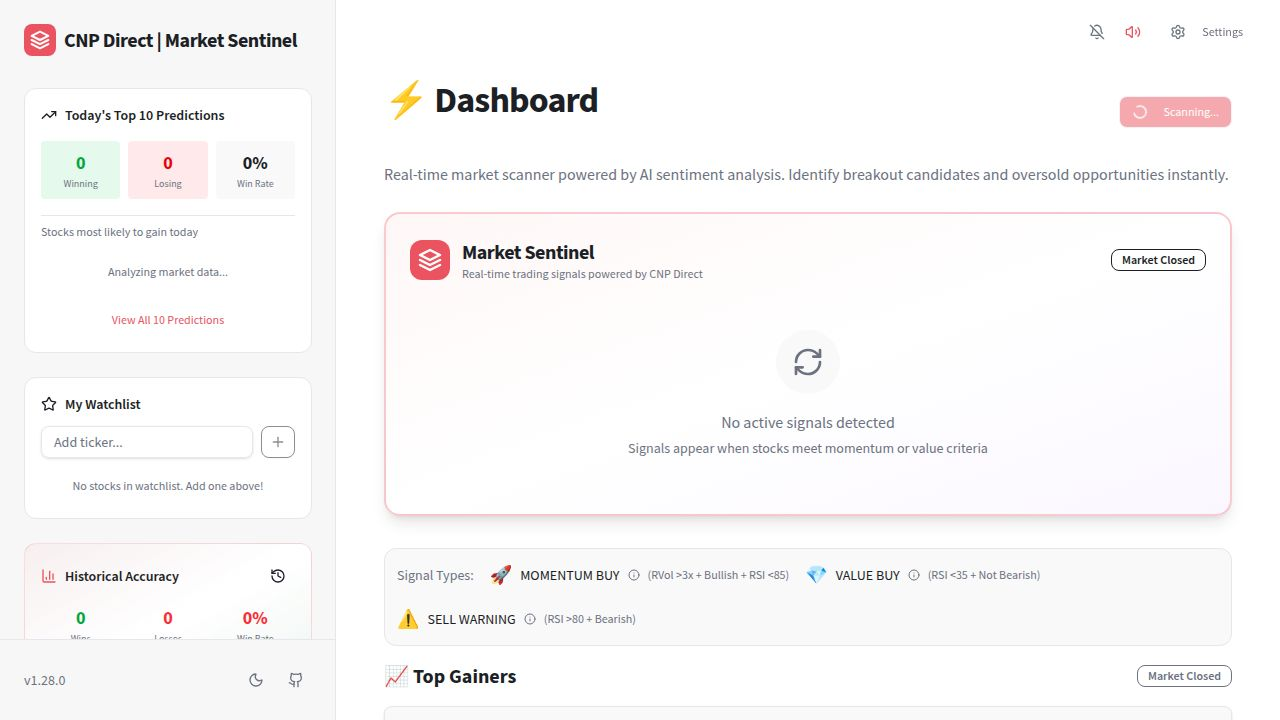
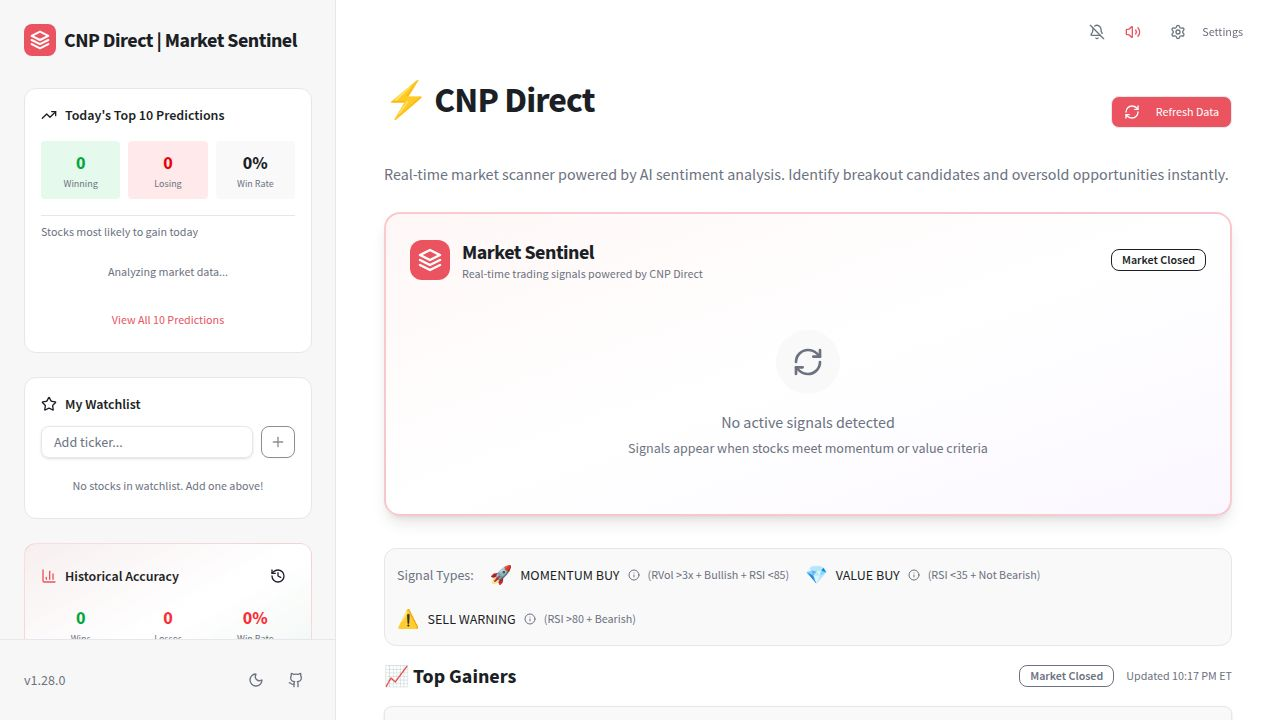
Update title to reflect new branding and expand data display
Rename the application title from "Dashboard" to "CNP Direct" and increase the number of suggested stocks displayed.

Replit-Commit-Author: Agent
Replit-Commit-Session-Id: db5ff1cf-1c07-46d6-991a-c6b152a6deed
Replit-Commit-Checkpoint-Type: full_checkpoint
Replit-Commit-Event-Id: abf42642-5a49-4807-abbb-ba113a0a1d01
Replit-Commit-Screenshot-Url: https://storage.googleapis.com/screenshot-production-us-central1/4bf776fa-5e1b-4027-845b-9c419019ac8b/db5ff1cf-1c07-46d6-991a-c6b152a6deed/O9kxOh3
Replit-Helium-Checkpoint-Created: true

Changed region(s): [[0.8438, 0.1222, 0.9688, 0.1833], [0.7812, 0.9167, 0.9688, 0.9472], [0.3438, 0.1222, 0.4688, 0.1528]]

diff --git a/client/src/pages/Home.tsx b/client/src/pages/Home.tsx
@@ -1230,7 +1230,7 @@ export default function Home() {
   return (
     <StreamlitLayout sidebar={SidebarContent}>
       <div className="flex items-center justify-between gap-4">
-        <StTitle>⚡ Dashboard</StTitle>
+        <StTitle>⚡ CNP Direct</StTitle>
         <Button
           onClick={() => refetch()}
           disabled={isLoading}
